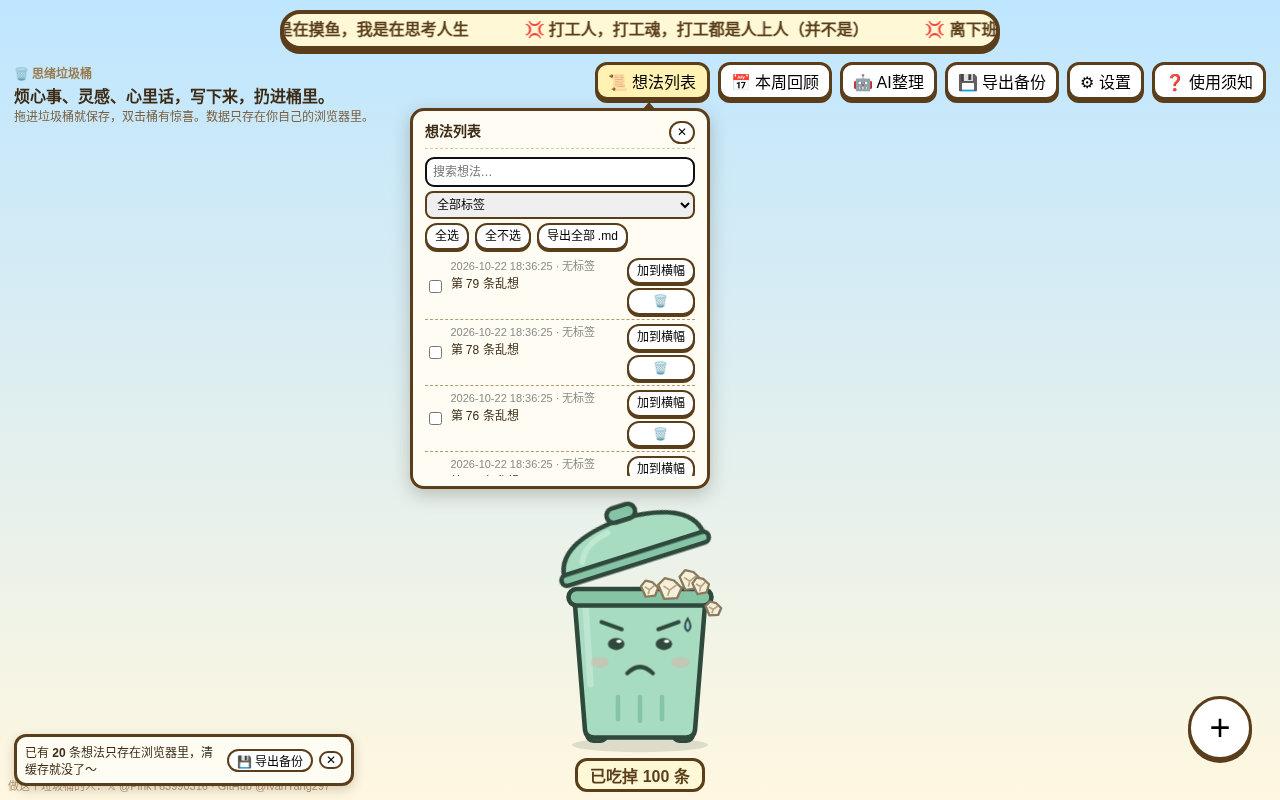
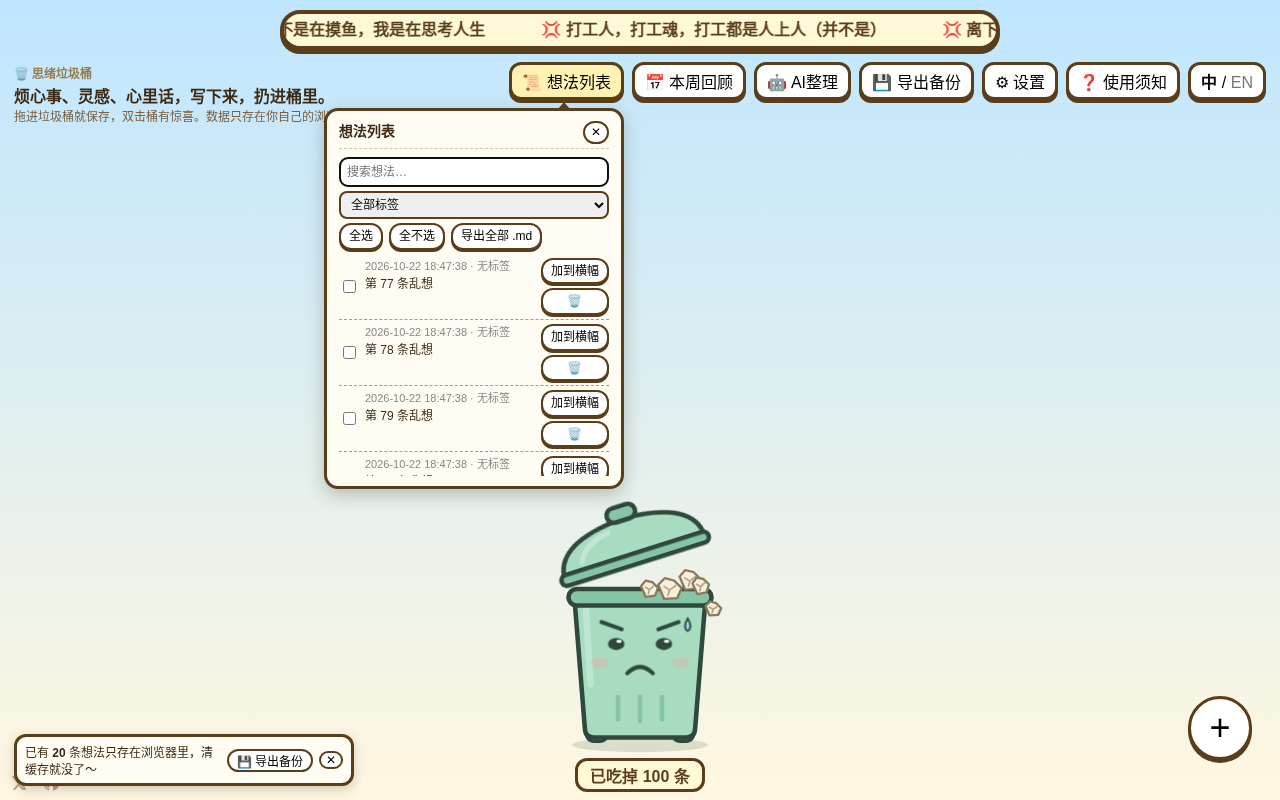
v1.2：冒烟测试加 en-US 一轮（落地页/引导/工具栏/使用须知/切换持久化/不溢出），英文截图与中英对照表 docs/i18n-review.md，刷新截图

Changed region(s): [[0.25, 0.0, 1.0, 0.625], [0.2188, 0.0, 0.375, 0.0625], [0.0, 0.9688, 0.0625, 1.0]]

diff --git a/tests/smoke_test.py b/tests/smoke_test.py
@@ -11,7 +11,7 @@ with sync_playwright() as p:
     def block_cf(ctx): ctx.route(re.compile(r'https://(static\.)?cloudflareinsights\.com/.*'), lambda r: r.fulfill(status=200, content_type='application/javascript', body=''))
     _new_ctx = b.new_context
     def new_context(fresh=False, **kw):
-        c = _new_ctx(**kw); block_cf(c)
+        kw.setdefault('locale', 'zh-CN'); c = _new_ctx(**kw); block_cf(c)
         if not fresh: c.add_init_script("localStorage.setItem('ttb.landed','1'); localStorage.setItem('ttb.toured','1')")  # 老用户：跳过落地页和引导
         return c
     b.new_context = new_context
@@ -317,7 +317,7 @@ with sync_playwright() as p:
     assert len(seen) == 7 and '随时点这里' in seen[-1] and op.locator('#tour-tip').count() == 0 and op.locator('.tour-mark').count() == 0, seen
     op.reload(); op.wait_for_selector('.bubble'); op.wait_for_timeout(600)
     assert op.locator('#landing').is_hidden() and op.locator('#tour-tip').count() == 0, '回访应自动跳过'
-    op.hover('#btn-help'); op.wait_for_selector('#help-pop.show'); assert 'v1.1.1' in op.inner_text('#help-pop .help-title'); op.click('#help-tour'); op.wait_for_selector('#tour-tip')
+    op.hover('#btn-help'); op.wait_for_selector('#help-pop.show'); assert 'v1.2' in op.inner_text('#help-pop .help-title'); op.click('#help-tour'); op.wait_for_selector('#tour-tip')
     op.click('#tour-tip .skip'); assert op.locator('#tour-tip').count() == 0
     oc.close(); print('落地页 + 引导（7 步 / 跳过 / 只一次 / 可重开）OK')
     # 备份提醒：未备份 10 条弹一次，之后每 +20；工具栏「导出备份」可见
@@ -365,15 +365,15 @@ with sync_playwright() as p:
     assert fp.get_attribute('#trash', 'data-state') == 'happy' and float(fp.get_attribute('#trash', 'data-mood')) == 0 and 'Q120.0 192.0' in fp.get_attribute('#mouth-smile', 'd')
     X, G = 'https://x.com/PinkY63990316?utm_source=ttb', 'https://github.com/IvanYang297'
     def ov(a, c): return not (a['x'] + a['width'] <= c['x'] or c['x'] + c['width'] <= a['x'] or a['y'] + a['height'] <= c['y'] or c['y'] + c['height'] <= a['y'])
-    def author_ok(pg):
-        hr = pg.locator('#author a').evaluate_all('as => as.map(a => [a.href, a.target, a.rel, a.textContent])')
-        assert hr == [[X, '_blank', 'noopener', '𝕏 @PinkY63990316'], [G, '_blank', 'noopener', 'GitHub @IvanYang297']], hr
-        assert '做这个垃圾桶的人' in pg.text_content('#author')
+    def author_ok(pg, tx='来 X 找我聊', tg='看看源码', hc='有想法、遇到问题？来 X 找我聊。'):
+        hr = pg.locator('#author a').evaluate_all('as => as.map(a => [a.href, a.target, a.rel, a.title, a.getAttribute("aria-label"), !!a.querySelector("svg")])')
+        assert hr == [[X, '_blank', 'noopener', tx, tx, True], [G, '_blank', 'noopener', tg, tg, True]], hr
+        assert pg.text_content('#author').strip() == ''  # 只有图标，不写账号文字
         fb = pg.locator('#author').bounding_box()
         for sel in ['#trash-wrap', '#toolbar', '#btn-add'] + [f'.bubble >> nth={i}' for i in range(pg.locator('.bubble').count())]:
             assert not ov(fb, pg.locator(sel).bounding_box()), (sel, fb)
         assert fb['height'] < 80 and float(pg.evaluate("getComputedStyle(document.querySelector('#author')).fontSize").rstrip('px')) <= 12
-        hp = pg.locator('#help-pop .help-contact a'); assert hp.get_attribute('href') == X and hp.text_content() == '有想法、遇到问题？来 X 找我聊。'
+        hp = pg.locator('#help-pop .help-contact a'); assert hp.get_attribute('href') == X and hp.text_content() == hc
         return fb
     print('作者链接 OK（桌面）', author_ok(fp))
     fp.evaluate('document.activeElement.blur()'); fp.wait_for_timeout(500)
@@ -390,6 +390,74 @@ with sync_playwright() as p:
     print('作者链接 OK（手机 390）', author_ok(mp))
     assert mp.text_content('#tag-tip') == '已选：吐槽'; mob.close(); print('触屏大按钮 + 点按提示 OK', ms)
     print('默认状态全为空提示语 OK:', [ph for _, ph in vals])
+    # ===== v1.2 英文：locale en-US 自动英文；「中 / EN」切换不刷新、不丢输入；选择持久化；不溢出 =====
+    keys = pg.evaluate("async () => { const m = await import('/js/i18n.js'); return Object.entries(m.D).filter(([k, v]) => !(Array.isArray(v) && v.length === 2 && v[0] && v[1] && typeof v[0] === typeof v[1])).map(([k]) => k); }")
+    assert keys == [], keys
+    def overlap_check(pg, w):
+        r = pg.evaluate("""() => { const bad = []; const vw = innerWidth;
+          document.querySelectorAll('#toolbar button, #hero, #author, #landing:not([hidden]) .land-box, #tour-tip, #help-pop.show, #panel:not(.hidden)').forEach(e => {
+            const b = e.getBoundingClientRect(); if (b.width && (b.left < -1 || b.right > vw + 1)) bad.push([e.id || e.className, b.left, b.right]);
+            if (e.scrollWidth > e.clientWidth + 2 && e.tagName === 'BUTTON') bad.push(['clip', e.id, e.scrollWidth, e.clientWidth]); });
+          const bs = [...document.querySelectorAll('#toolbar button')].map(e => e.getBoundingClientRect());
+          for (let i = 0; i < bs.length; i++) for (let j = i + 1; j < bs.length; j++) { const a = bs[i], c = bs[j];
+            if (a.left < c.right - 1 && c.left < a.right - 1 && a.top < c.bottom - 1 && c.top < a.bottom - 1) bad.push(['tb-overlap', i, j]); }
+          return bad; }""")
+        assert not r, (w, r)
+    for W in (1280, 390):
+        ec = b.new_context(fresh=True, locale='en-US', viewport={'width': W, 'height': 800}, **({'has_touch': True, 'is_mobile': True} if W == 390 else {})); ep = ec.new_page()
+        ep.on('console', lambda m: m.type == 'error' and errors.append(m.text)); ep.on('pageerror', lambda e: errors.append(str(e)))
+        ep.goto('http://127.0.0.1:8766/index.html'); ep.wait_for_selector('#landing:not([hidden])')
+        assert ep.get_attribute('html', 'lang') == 'en' and ep.title().startswith('Thought Trash Bin')
+        assert ep.inner_text('#landing h1') == 'Thought Trash Bin' and ep.inner_text('#land-enter') == 'Open the bin →'
+        assert 'Rants, ideas, 3am thoughts. Write it, toss it, feel lighter.' in ep.inner_text('#landing') and 'What is this?' in ep.inner_text('#landing') and 'Who is it for?' in ep.inner_text('#landing')
+        assert 'Free, no sign-up. Everything stays in your own browser.' in ep.inner_text('#landing')
+        assert not re.search(r'[\u4e00-\u9fff]', ep.inner_text('#landing').replace('中', '')), ep.inner_text('#landing')
+        overlap_check(ep, W)
+        if W == 1280: ep.screenshot(path=os.path.join(ROOT, 'docs', 'landing-en.png'))
+        ep.click('#land-enter'); ep.wait_for_selector('#tour-tip')
+        steps = []
+        for i in range(10):
+            steps.append(ep.inner_text('#tour-tip p')); overlap_check(ep, W)
+            nb = ep.locator('#tour-tip .next')
+            if nb.inner_text() == 'Start tossing': nb.click(); break
+            assert nb.inner_text() == 'Next' and ep.inner_text('#tour-tip .skip') == 'Skip'; nb.click()
+        assert steps == ['Write anything on this card. No format needed.', 'Tag it: rant, idea, or secret?', 'Drag it into the bin. Nom. Saved.', 'Bored? Double-click the bin. Trust me.',
+            'Everything you wrote lives here. You can also make a weekly recap image.', 'Brain too messy? Let AI turn it into a to-do list.', 'Forgot how it works? Tap Help anytime.'], steps
+        tb = ep.locator('#toolbar').inner_text()
+        for w in ['My notes', 'Weekly recap', 'AI tidy-up', 'Back up', 'Settings', 'Help', 'EN']: assert w in tb, (w, tb)
+        assert 'Rants, ideas' in ep.inner_text('#hero') and 'Ate' in ep.inner_text('#counter')
+        assert ep.locator('.bubble .grip').first.inner_text().startswith('⠿ Drag me')
+        assert not re.search(r'[\u4e00-\u9fff]', ep.inner_text('body').replace('中', '')), ep.inner_text('body')
+        overlap_check(ep, W)
+        if W == 1280:
+            ep.hover('#btn-help'); ep.wait_for_selector('#help-pop.show'); ht = ep.inner_text('#help-pop')
+            assert ht.startswith('Help') and 'v1.2' in ht and 'Replay the tour' in ht and not re.search(r'[\u4e00-\u9fff]', ht.replace('中', '')), ht
+            overlap_check(ep, W); author_ok(ep, 'Chat with me on X', 'View on GitHub', 'Got ideas or hit a bug? Come chat on X.')
+            ep.mouse.move(640, 700); ep.wait_for_timeout(400)
+            for k in ['list', 'ai', 'settings']:
+                ep.click(f'#btn-{k}'); ep.wait_for_timeout(250); overlap_check(ep, W)
+                assert not re.search(r'[\u4e00-\u9fff]', ep.inner_text('#panel')), (k, ep.inner_text('#panel'))
+                ep.click(f'#btn-{k}')
+            pr = ep.evaluate("async () => { const a = await import('/js/ai.js'), m = await import('/js/mystic-prompt.js'), n = [{createdAt: Date.now(), text: 'boss again'}]; return [a.buildPrompt(n), m.buildMysticPrompt(n)]; }")
+            assert pr[0].startswith("You're") and 'Let it go' in pr[0] and not re.search(r'[\u4e00-\u9fff]', pr[0] + pr[1])
+            for w in ['For entertainment only', "Today's Fortune", 'Do:', 'Avoid:', 'Lucky color', 'Reading:', '3 practical tips', 'health', 'invest']: assert w in pr[1], w
+            ep.click('#btn-review'); ep.wait_for_selector('#review canvas'); assert ep.inner_text('#review-dl') == '⬇ Download PNG'; ep.click('#review-close')
+        else:
+            author_ok(ep, 'Chat with me on X', 'View on GitHub', 'Got ideas or hit a bug? Come chat on X.')
+        # 输入文字后切到中文：不刷新、不丢字
+        ep.locator('.bubble textarea').first.fill('keep me 保留')
+        ep.evaluate("window.__noReload = 1"); ep.click('#btn-lang'); ep.wait_for_timeout(300)
+        assert ep.evaluate("window.__noReload") == 1 and ep.get_attribute('html', 'lang') == 'zh-CN'
+        assert ep.locator('.bubble textarea').first.input_value() == 'keep me 保留'
+        assert '想法列表' in ep.inner_text('#toolbar') and ep.locator('.bubble .grip').first.inner_text().startswith('⠿ 拖我')
+        assert ep.locator('.bubble textarea').nth(1).get_attribute('placeholder') in ep.evaluate("async () => (await import('/js/i18n.js')).D['bubble.hints'][0]")
+        overlap_check(ep, W)
+        ep.reload(); ep.wait_for_selector('.bubble'); ep.wait_for_timeout(400)
+        assert ep.get_attribute('html', 'lang') == 'zh-CN' and '想法列表' in ep.inner_text('#toolbar') and ep.locator('#landing').is_hidden()
+        if W == 1280:  # 再切回英文截主页图
+            ep.click('#btn-lang'); ep.wait_for_timeout(300); ep.evaluate('document.activeElement.blur()'); ep.mouse.move(640, 760); ep.wait_for_timeout(2600)
+            ep.screenshot(path=os.path.join(ROOT, 'docs', 'screenshot-en.png'))
+        ec.close(); print(f'英文版 OK（{W}）：落地页 / 7 步引导 / 工具栏 / 使用须知 / 切换不丢字 / 刷新后保持中文 / 不溢出')
     b.close()
 srv.shutdown()
 assert not errors, errors

diff --git a/docs/i18n-review.md b/docs/i18n-review.md
@@ -1,0 +1,242 @@
+# 中英文案对照表（v1.2）
+
+来源：`js/i18n.js`（改文案请直接改那个文件，这张表由脚本生成，仅供校对）。`{n}` 这类是变量，别删。
+
+另：两段 AI 提示词（整理 / 玄学）较长，直接写在 `js/ai.js` 和 `js/mystic-prompt.js` 里，中英各一段，见文末。
+
+| key | 中文 | English |
+|---|---|---|
+| `doc.title` | 思绪垃圾桶 · 烦心事、灵感、心里话，写下来，扔进桶里 | Thought Trash Bin · Rants, ideas, 3am thoughts. Write it, toss it. |
+| `meta.desc` | 一个会“吃”想法的垃圾桶：随手写、拖进去、每周看回顾，还能交给 AI 帮你理清。免费，不用注册。 | A trash bin that eats your thoughts: scribble, drag it in, get a weekly recap, and let AI sort the mess. Free, no sign-up. |
+| `lang.aria` | 切换语言 / Switch language | Switch language / 切换语言 |
+| `lang.switched` | 已切换到中文 | Switched to English |
+| `banner.aria` | 吐槽横幅 | Rant ticker |
+| `tb.list` | 📜 想法列表 | 📜 My notes |
+| `tb.review` | 📅 本周回顾 | 📅 Weekly recap |
+| `tb.review.title` | 本周回顾卡片（每周五自动弹出） | Weekly recap card (pops up every Friday) |
+| `tb.ai` | 🤖 AI整理 | 🤖 AI tidy-up |
+| `tb.backup` | 💾 导出备份 | 💾 Back up |
+| `tb.backup.title` | 把全部想法导出成一个 .md 文件，换浏览器或清缓存也不怕丢 | Export everything as one .md file, so switching browsers or clearing cache won't eat it |
+| `tb.settings` | ⚙ 设置 | ⚙ Settings |
+| `tb.help` | ❓ 使用须知 | ❓ Help |
+| `tb.help.aria` | 使用须知：所有操作和快捷键 | Help: every trick and shortcut |
+| `hero.aria` | 简介 | About |
+| `hero.brand` | 🗑 思绪垃圾桶 | 🗑 Thought Trash Bin |
+| `hero.headline` | 烦心事、灵感、心里话，写下来，扔进桶里。 | Rants, ideas, 3am thoughts. Write it, toss it, feel lighter. |
+| `hero.sub` | 拖进垃圾桶就保存，双击桶有惊喜。数据只存在你自己的浏览器里。 | Drop it in the bin to save. Double-click the bin for a surprise. Your stuff never leaves your browser. |
+| `stage.title` | 点空白处写一条新想法 | Click any empty spot to write a new thought |
+| `add.title` | 新建对话框（快捷键 N 或 Ctrl+Alt+N） | New card (shortcut: N or Ctrl+Alt+N) |
+| `trash.title` | 把对话框拖进来；双击或狂点有惊喜 | Drag cards in here. Double-click or spam-click for a surprise |
+| `counter.pre` | 已吃掉 | Ate |
+| `counter.post` | 条 | thoughts |
+| `panel.close` | 关闭 | Close |
+| `author.x` | 来 X 找我聊 | Chat with me on X |
+| `author.gh` | 看看源码 | View on GitHub |
+| `land.title` | 思绪垃圾桶 | Thought Trash Bin |
+| `land.intro` | 烦心事、灵感、心里话，写下来，扔进桶里。 | Rants, ideas, 3am thoughts. Write it, toss it, feel lighter. |
+| `land.enter` | 进入垃圾桶 → | Open the bin → |
+| `land.small` | 免费，不用注册，内容只存在你自己的浏览器里。 | Free, no sign-up. Everything stays in your own browser. |
+| `land.what.h` | 这是什么 | What is this? |
+| `land.what.p` | 一个会“吃”想法的网页垃圾桶：把脑子里乱糟糟的念头写在卡片上，拖进桶里就自动保存。之后可以搜索、导出、每周生成一张回顾图，也能一键交给 DeepSeek 等 AI 帮你理成要做的事。 | A web trash bin that eats your thoughts. Dump whatever's rattling around your head onto a card, drag it into the bin, and it's saved. Later you can search it, export it, make a weekly recap image, or hand the whole pile to an AI like DeepSeek to turn it into a to-do list. |
+| `land.who.h` | 适合谁 | Who is it for? |
+| `land.who.p` | 上班时脑子停不下来的打工人、想随手记灵感又懒得开笔记软件的人、需要找个地方吐槽和说心里话的人。 | Office workers whose brains won't shut up during work, people who want to catch ideas without opening a "real" notes app, and anyone who just needs somewhere to vent. |
+| `land.skip` | 跳过 | Skip |
+| `bubble.grip` | ⠿ 拖我进垃圾桶 | ⠿ Drag me to the bin |
+| `bubble.close` | 不要了 | Nah, toss it |
+| `bubble.hints` | 1. 想到啥写啥…<br>2. 吐个槽吧…<br>3. 心里话放这里…<br>4. 老板今天又说啥了？<br>5. 脑子里乱糟糟的，倒出来吧…<br>6. 一个突发奇想…<br>7. 今天最想吐槽的一件事…<br>8. 偷偷写，桶不会说出去的～ | 1. Type whatever…<br>2. Go on, vent…<br>3. Secrets go here…<br>4. What did the boss say this time?<br>5. Brain full? Pour it out…<br>6. A random shower thought…<br>7. The #1 thing that annoyed you today…<br>8. Psst, the bin won't tell anyone~ |
+| `tag.rant` | 吐槽 | Rant |
+| `tag.idea` | 灵感 | Idea |
+| `tag.heart` | 心里话 | Secret |
+| `tag.none` | 无标签 | No tag |
+| `tag.picked` | 已选：{name} | Tagged: {name} |
+| `tag.cleared` | 已取消 | Tag removed |
+| `toast.limit` | 最多 10 个对话框，先丢几个进桶吧～ | Max 10 cards. Toss a few into the bin first~ |
+| `toast.empty` | 空的对话框，桶不吃哦～先写点什么吧 | Empty card? The bin's not eating that. Write something first~ |
+| `toast.savedFolder` | 嚼嚼嚼…已存进文件夹 📁 | Nom nom nom… saved to your folder 📁 |
+| `toast.savedBrowser` | 嚼嚼嚼…已存在浏览器里 | Nom nom nom… saved in your browser |
+| `toast.saveFail` | 保存失败：{msg} | Couldn't save: {msg} |
+| `toast.bannerAdded` | 已加到横幅 ✍ | Added to the ticker ✍ |
+| `toast.bannerDup` | 这句已经在横幅里了（或为空） | That line's already on the ticker (or it's empty) |
+| `toast.bannerRemoved` | 已从横幅移除 | Removed from the ticker |
+| `toast.backupDone` | 已导出全部想法（.md），存好这个文件就不怕丢 | Exported everything (.md). Keep that file safe and nothing's lost |
+| `toast.promptCopied` | 提示词已复制，去粘贴吧～ | Prompt copied. Go paste it~ |
+| `toast.noNotes` | 还没有想法可以整理 | Nothing to tidy up yet |
+| `toast.savedTo` | 已保存到文件夹：{name} | Saved to folder: {name} |
+| `toast.downloaded` | 已下载：{name} | Downloaded: {name} |
+| `toast.folderPicked` | 文件夹已选好，之后的想法会存成 .md | Folder set. New thoughts will be saved as .md files |
+| `toast.reauthed` | 已重新授权 | Access restored |
+| `toast.keySaved` | 密钥已保存 | Key saved |
+| `toast.keyCleared` | 密钥已清除 | Key cleared |
+| `toast.shareCopied` | 图片已下载，网址已复制，发给朋友吧～ | Image downloaded and link copied. Go show your friends~ |
+| `toast.shareUrl` | 图片已下载，网址：{url} | Image downloaded. Link: {url} |
+| `panel.list` | 想法列表 | My notes |
+| `panel.ai` | AI 整理 | AI tidy-up |
+| `panel.settings` | 设置 | Settings |
+| `list.search` | 搜索想法… | Search your thoughts… |
+| `list.allTags` | 全部标签 | All tags |
+| `list.selAll` | 全选 | Select all |
+| `list.selNone` | 全不选 | Select none |
+| `list.export` | 导出全部 .md | Export all .md |
+| `list.noMatch` | 没有搜到～ | Nothing matches~ |
+| `list.empty` | 还没有想法，丢一条进桶试试 🗑 | No thoughts yet. Toss one into the bin 🗑 |
+| `list.toBanner` | 加到横幅 | To ticker |
+| `list.toBanner.title` | 加到横幅 | Add to the top ticker |
+| `list.del` | 删除 | Delete |
+| `list.ask` | 确定删除这条吗？ | Delete this one? |
+| `list.yes` | 删除 | Delete |
+| `list.no` | 取消 | Cancel |
+| `ai.count` | 将整理 <b>{n}</b> 条想法（{which}）。 | Tidying up <b>{n}</b> thoughts ({which}). |
+| `ai.picked` | 已勾选的 | the ones you ticked |
+| `ai.all` | 全部；可在「想法列表」里勾选 | all of them; tick some in "My notes" to pick |
+| `ai.go` | ✨ 用 DeepSeek 整理 | ✨ Tidy up with DeepSeek |
+| `ai.copy` | 📋 一键复制整理提示词 | 📋 Copy tidy-up prompt |
+| `ai.mystic` | 🔮 复制玄学解读提示词 | 🔮 Copy fortune-telling prompt |
+| `ai.noKeyHint` | 没有密钥？复制提示词后贴到豆包或 WorkBuddy 里用。 | No key? Copy a prompt and paste it into ChatGPT, Doubao, WorkBuddy or any AI chat. |
+| `ai.thinking` | 思考中… | Thinking… |
+| `ai.resultTitle` | AI 整理结果 | AI tidy-up result |
+| `ai.errNoKey` | 还没有填写 DeepSeek 密钥，请先到「设置」里填写，或使用「一键复制整理提示词」。 | No DeepSeek key yet. Add one in Settings, or use "Copy tidy-up prompt". |
+| `ai.errOffline` | 现在离线了，AI 整理需要联网。 | You're offline. AI tidy-up needs the internet. |
+| `ai.errHttp` | DeepSeek 返回错误 {status}：{body} | DeepSeek returned error {status}: {body} |
+| `ai.empty` | （AI 没有返回内容） | (The AI returned nothing) |
+| `set.folder.h` | 📁 保存位置 | 📁 Where it saves |
+| `set.folder.cur` | 当前文件夹：<b>{name}</b> | Current folder: <b>{name}</b> |
+| `set.folder.reauth` | 需要重新授权上次的文件夹 | Your last folder needs permission again |
+| `set.folder.none` | 还没选文件夹，目前存在浏览器里 | No folder picked. Thoughts live in your browser for now |
+| `set.folder.unsupported` | 当前浏览器不支持选择文件夹，想法存在浏览器里，可在列表中导出 .md。 | This browser can't pick folders, so thoughts live in the browser. You can export .md from My notes. |
+| `set.folder.pick` | 选择文件夹 | Pick a folder |
+| `set.folder.reauthBtn` | 重新授权 | Grant access |
+| `set.banner.h` | 📢 我的横幅 | 📢 My ticker lines |
+| `set.banner.ph` | 写一句你自己的吐槽… | Write your own one-liner… |
+| `set.banner.add` | 添加 | Add |
+| `set.banner.remove` | 移除 | Remove |
+| `set.banner.none` | 还没有自定义的句子，默认文案照常播放。 | No custom lines yet. The default ones keep rolling. |
+| `set.keys.h` | ⌨ 快捷键 | ⌨ Shortcuts |
+| `set.keys.p` | N（不在输入时）或 Ctrl+Alt+N：新建对话框 | N (when not typing) or Ctrl+Alt+N: new card |
+| `set.key.h` | 🔑 DeepSeek 密钥 | 🔑 DeepSeek key |
+| `set.key.p` | 只保存在本浏览器（localStorage），不会上传到别处，仅在整理时发给 DeepSeek。 | Stored only in this browser (localStorage). Never uploaded anywhere, only sent to DeepSeek when you tidy up. |
+| `set.key.save` | 保存密钥 | Save key |
+| `set.key.clear` | 清除密钥 | Clear key |
+| `tour.1` | 想到什么就写在这张卡片上，不用管格式。 | Write anything on this card. No format needed. |
+| `tour.2` | 给它贴个标签：吐槽、灵感，还是心里话？ | Tag it: rant, idea, or secret? |
+| `tour.3` | 把卡片拖进垃圾桶，它会吃掉并帮你保存。 | Drag it into the bin. Nom. Saved. |
+| `tour.4` | 无聊的时候双击垃圾桶试试。 | Bored? Double-click the bin. Trust me. |
+| `tour.5` | 写过的都在这里，还能生成本周回顾图片。 | Everything you wrote lives here. You can also make a weekly recap image. |
+| `tour.6` | 攒了一堆乱想法？一键交给 AI，帮你理成要做的事。 | Brain too messy? Let AI turn it into a to-do list. |
+| `tour.7` | 忘了怎么玩？随时点这里再看一遍。 | Forgot how it works? Tap Help anytime. |
+| `tour.skip` | 跳过 | Skip |
+| `tour.next` | 下一步 | Next |
+| `tour.done` | 开始扔吧 | Start tossing |
+| `help.title` | 使用须知 | Help |
+| `help.sections` | **✍ 写想法** 点空白处 / <b>+</b> / <kbd>N</kbd> / <kbd>Ctrl</kbd>+<kbd>Alt</kbd>+<kbd>N</kbd>：新建 / 最多 <b>10</b> 个对话框；✕ 直接扔掉 / 心情标签：😤 吐槽 · 💡 灵感 · 😢 心里话<br>**🗑 丢进桶** <b>拖进</b>垃圾桶，或<b>连点三下</b>对话框：保存 / 空的不吃，会弹回来 / <b>双击</b>桶 / 2 秒<b>连点 5 下</b>：纸片爆出来 / 没整理的多了桶会不开心；20 条打嗝，100 条喷纸<br>**📜 列表** 搜索、按标签筛选、删除 / 「加到横幅」·「导出全部 .md」<br>**🤖 AI整理** 设置里填 DeepSeek 密钥后一键整理 / 没密钥：一键复制整理提示词 → 豆包 / WorkBuddy<br>**📅 本周回顾** 各标签统计，可下载 PNG 或「分享」；周五自动弹一次<br>**💾 导出备份** 想法默认只存在浏览器里；点工具栏「导出备份」存成 .md<br>**⚙ 设置** 选保存文件夹 · 我的横幅 · 密钥<br>**🌐 语言** 自动跟随浏览器语言；右上角「中 / EN」随时切换<br>**⌨ 快捷键** <kbd>N</kbd> / <kbd>Ctrl</kbd>+<kbd>Alt</kbd>+<kbd>N</kbd> 新建 · <kbd>Esc</kbd> 关闭面板 / 本卡片 | **✍ Write** Click empty space / <b>+</b> / <kbd>N</kbd> / <kbd>Ctrl</kbd>+<kbd>Alt</kbd>+<kbd>N</kbd>: new card / Up to <b>10</b> cards; ✕ throws one away / Mood tags: 😤 Rant · 💡 Idea · 😢 Secret<br>**🗑 Toss** <b>Drag</b> into the bin, or <b>triple-click</b> a card: saved / Empty cards get spat back out / <b>Double-click</b> the bin / <b>click 5×</b> in 2s: paper explosion / Too many untidied thoughts make the bin sad; burps at 20, sprays at 100<br>**📜 My notes** Search, filter by tag, delete / "To ticker" · "Export all .md"<br>**🤖 AI tidy-up** Add a DeepSeek key in Settings, then one click / No key: copy the prompt → any AI chat<br>**📅 Weekly recap** Counts per tag, download PNG or "Share"; pops up once every Friday<br>**💾 Back up** Thoughts live only in your browser by default; hit "Back up" to save a .md<br>**⚙ Settings** Save folder · My ticker lines · API key<br>**🌐 Language** Follows your browser language; flip with "中 / EN" up top anytime<br>**⌨ Shortcuts** <kbd>N</kbd> / <kbd>Ctrl</kbd>+<kbd>Alt</kbd>+<kbd>N</kbd> new card · <kbd>Esc</kbd> closes panels / this card |
+| `help.tour` | 🧭 再看一遍新手引导 | 🧭 Replay the tour |
+| `help.foot` | 除了 AI 整理，全部可离线使用<br>本站使用 Cloudflare Web Analytics，仅用于匿名访问统计，不上传任何想法内容。 | Everything except AI tidy-up works offline.<br>This site uses Cloudflare Web Analytics for anonymous visit counts only. Your thoughts are never uploaded. |
+| `help.contact` | 有想法、遇到问题？来 X 找我聊。 | Got ideas or hit a bug? Come chat on X. |
+| `nudge.text` | 已有 <b>{n}</b> 条想法只存在浏览器里，清缓存就没了～ | <b>{n}</b> thoughts live only in this browser. Clear the cache and poof~ |
+| `nudge.go` | 💾 导出备份 | 💾 Back up |
+| `nudge.close` | 关闭 | Close |
+| `rv.title` | 🗑 本周思绪回顾 | 🗑 My Week in Thoughts |
+| `rv.total` | 本周一共丢进垃圾桶的想法（条） | thoughts tossed into the bin this week |
+| `rv.sign` | —— 思绪垃圾桶 | — Thought Trash Bin |
+| `rv.comments` | 1. 这周很安静，是不是太忙了？<br>2. 这周丢了几条，状态还行～<br>3. 这周脑子很活跃嘛！<br>4. 这周槽点满满，辛苦了，抱抱！ | 1. Quiet week. Too busy to even rant?<br>2. A few tosses this week. Not bad~<br>3. Your brain was on fire this week!<br>4. So. Many. Rants. Hang in there, hugs! |
+| `rv.share` | 📤 分享 | 📤 Share |
+| `rv.dl` | ⬇ 下载 PNG | ⬇ Download PNG |
+| `rv.close` | 关闭 | Close |
+| `rv.file` | 本周回顾 | weekly-recap |
+| `rv.shareTitle` | 本周思绪回顾 | My Week in Thoughts |
+| `rv.shareText` | 这周我往思绪垃圾桶里丢了 {n} 条想法 {url} | I tossed {n} thoughts into the Thought Trash Bin this week {url} |
+| `egg.empty` | 桶里空空的，先丢点想法进来吧～ | The bin is empty. Feed it some thoughts first~ |
+| `burp.bubble` | 嗝～ | Burp~ |
+| `burp.toast` | 嗝～桶里有 {n} 条以上没整理的想法了，去「AI整理」理一理吧！ | Burp~ {n}+ untidied thoughts in here. Time for an AI tidy-up! |
+| `file.note` | 想法 | thought |
+| `file.ai` | AI整理 | ai-tidy-up |
+| `file.all` | 全部想法 | all-thoughts |
+| `export.head` | # 思绪垃圾桶 导出（共 {n} 条） | # Thought Trash Bin export ({n} thoughts) |
+| `banner.lines` | 1. 今天也是想辞职的一天<br>2. 老板又画饼了，我已经吃饱了<br>3. 周一综合征晚期，医生说没救了<br>4. 会议开了两小时，结论是再开一次会<br>5. 工资像大姨妈，一个月一次，一周就没了<br>6. “这个需求很简单”——史上最可怕的七个字<br>7. 我不是在摸鱼，我是在思考人生<br>8. 打工人，打工魂，打工都是人上人（并不是）<br>9. 离下班还有 8 小时，离退休还有 30 年<br>10. “辛苦了”不如“涨工资了”<br>11. 收到，好的，没问题，马上改——第 18 版<br>12. 我的工位就是我的牢房<br>13. 早上的我：今天要努力；下午的我：算了<br>14. 周报写得比我干的活还精彩<br>15. 领导说“随便聊聊”，我开始写遗书<br>16. 加班不可怕，可怕的是没有加班费<br>17. 我和闹钟之间，必须有一个先离职<br>18. “你先做着，后面再说”，后面就没有后面了<br>19. 咖啡续命，奶茶回血，下班复活<br>20. 把烦恼丢进垃圾桶，明天又是一条好汉 | 1. Another day, another urge to quit<br>2. This meeting could have been an email<br>3. Per my last email… which you didn't read<br>4. Two-hour meeting. Conclusion: another meeting<br>5. Payday: here on Friday, gone by Sunday<br>6. "Quick question" — never quick, never one question<br>7. I'm not slacking, I'm strategically recharging<br>8. Let's circle back… to never<br>9. 8 hours till home time, 30 years till retirement<br>10. "Great job!" doesn't pay rent<br>11. Sure, no problem, on it — final_v18_REAL.pptx<br>12. My cubicle has better Wi-Fi than my career<br>13. Morning me: let's crush it. 3pm me: let's not<br>14. My status report is more exciting than my actual work<br>15. "Got a minute?" — said no one with good news<br>16. Unpaid overtime: my favourite hobby (not)<br>17. Me vs. my alarm clock: one of us has to resign<br>18. "Just start, we'll figure it out later" — later never came<br>19. Running on coffee, rebooting at 6pm<br>20. Toss the stress in the bin. Tomorrow's a fresh start |
+
+## 整理提示词 / Tidy-up prompt
+
+**中文**
+
+```text
+你是一位温柔又靠谱的个人效率教练。下面是我随手丢进「思绪垃圾桶」的零散想法、吐槽和心里话，内容可能很乱、很情绪化。
+请帮我整理成可执行的计划，要求：
+1. 先用一两句话共情一下我的情绪（别说教）。
+2. 把相关想法归并成若干「项目」，每个项目起一个简短名字。
+3. 每个项目列出具体「步骤」（动词开头，尽量小到今天就能开始）。
+4. 给每个项目标注「优先级」（高/中/低），并说明一句理由。
+5. 纯吐槽、无需行动的内容，单独放在「放下吧」一节，不必硬拆成任务。
+6. 用 Markdown 输出，标题清晰，不要编造我没提到的事实。
+
+我的想法如下：
+（想法列表）
+```
+
+**English**
+
+```text
+You're a warm, no-nonsense personal productivity coach. Below are random thoughts, rants and secrets I've tossed into my "Thought Trash Bin". They may be messy and emotional.
+Please turn them into an actionable plan:
+1. Start with a sentence or two acknowledging how I feel (no lecturing).
+2. Group related thoughts into a few "Projects", each with a short name.
+3. For each project, list concrete "Steps" (start with a verb, small enough to begin today).
+4. Give each project a "Priority" (High / Medium / Low) with a one-line reason.
+5. Pure venting that needs no action goes in a separate "Let it go" section. Don't force it into tasks.
+6. Output in Markdown with clear headings. Don't invent facts I didn't mention.
+
+My thoughts:
+(notes list)
+```
+
+## 玄学解读提示词 / Fortune prompt
+
+**中文**
+
+```text
+【仅供娱乐】下面是我随手丢进「思绪垃圾桶」的上班想法、吐槽和心里话。请你当一位温暖又幽默的“职场玄学师”，根据这些内容给我来一份轻松好玩的玄学解读。
+
+解读风格可以从「塔罗」「星座运势」「MBTI」「今日宜忌」里任选一种（不确定就用「今日宜忌 + 塔罗口吻」）。
+
+请严格按下面的卡片格式输出：
+【今日签文】一句短短的签文
+宜：……（例如：宜摸鱼）
+忌：……（例如：忌改PPT）
+幸运色：……
+解读：用你选的那一种风格，写三四句简短的解读，并注明用的是哪种风格
+
+然后另起一节「3 条现实小建议」：根据我写的内容，给出 3 条今天就能做到的具体小建议。
+
+要求：
+1. 语气温暖、幽默、积极，不制造焦虑，不说吓人的话。
+2. 不做任何健康、医疗、财运、投资或理财方面的预测和建议。
+3. 不要编造我没提到的事实。
+4. 结尾再写一句：「以上仅供娱乐，开心最重要～」
+
+我的想法如下：
+（想法列表）
+```
+
+**English**
+
+```text
+[For entertainment only] Below are the work thoughts, rants and secrets I've tossed into my "Thought Trash Bin". Be a warm, funny "office mystic" and give me a light-hearted, playful reading based on them.
+
+Pick one style: Tarot, horoscope, MBTI, or "Today's Do & Avoid" (if unsure, use "Today's Do & Avoid" in a tarot-reader voice).
+
+Use exactly this card format:
+Today's Fortune: one short fortune line
+Do: … (e.g. Do: take a long coffee break)
+Avoid: … (e.g. Avoid: editing slides)
+Lucky color: …
+Reading: three or four short sentences in the style you picked, and say which style you used
+
+Then add a separate section "3 practical tips": based on what I wrote, give 3 concrete small things I can actually do today.
+
+Rules:
+1. Keep it warm, funny and positive. No fear-mongering, nothing scary.
+2. No predictions or advice about health, medical issues, money luck, investing or finance.
+3. Don't invent facts I didn't mention.
+4. End with this line: "All of this is for entertainment only. Have fun!"
+
+My thoughts:
+(notes list)
+```
